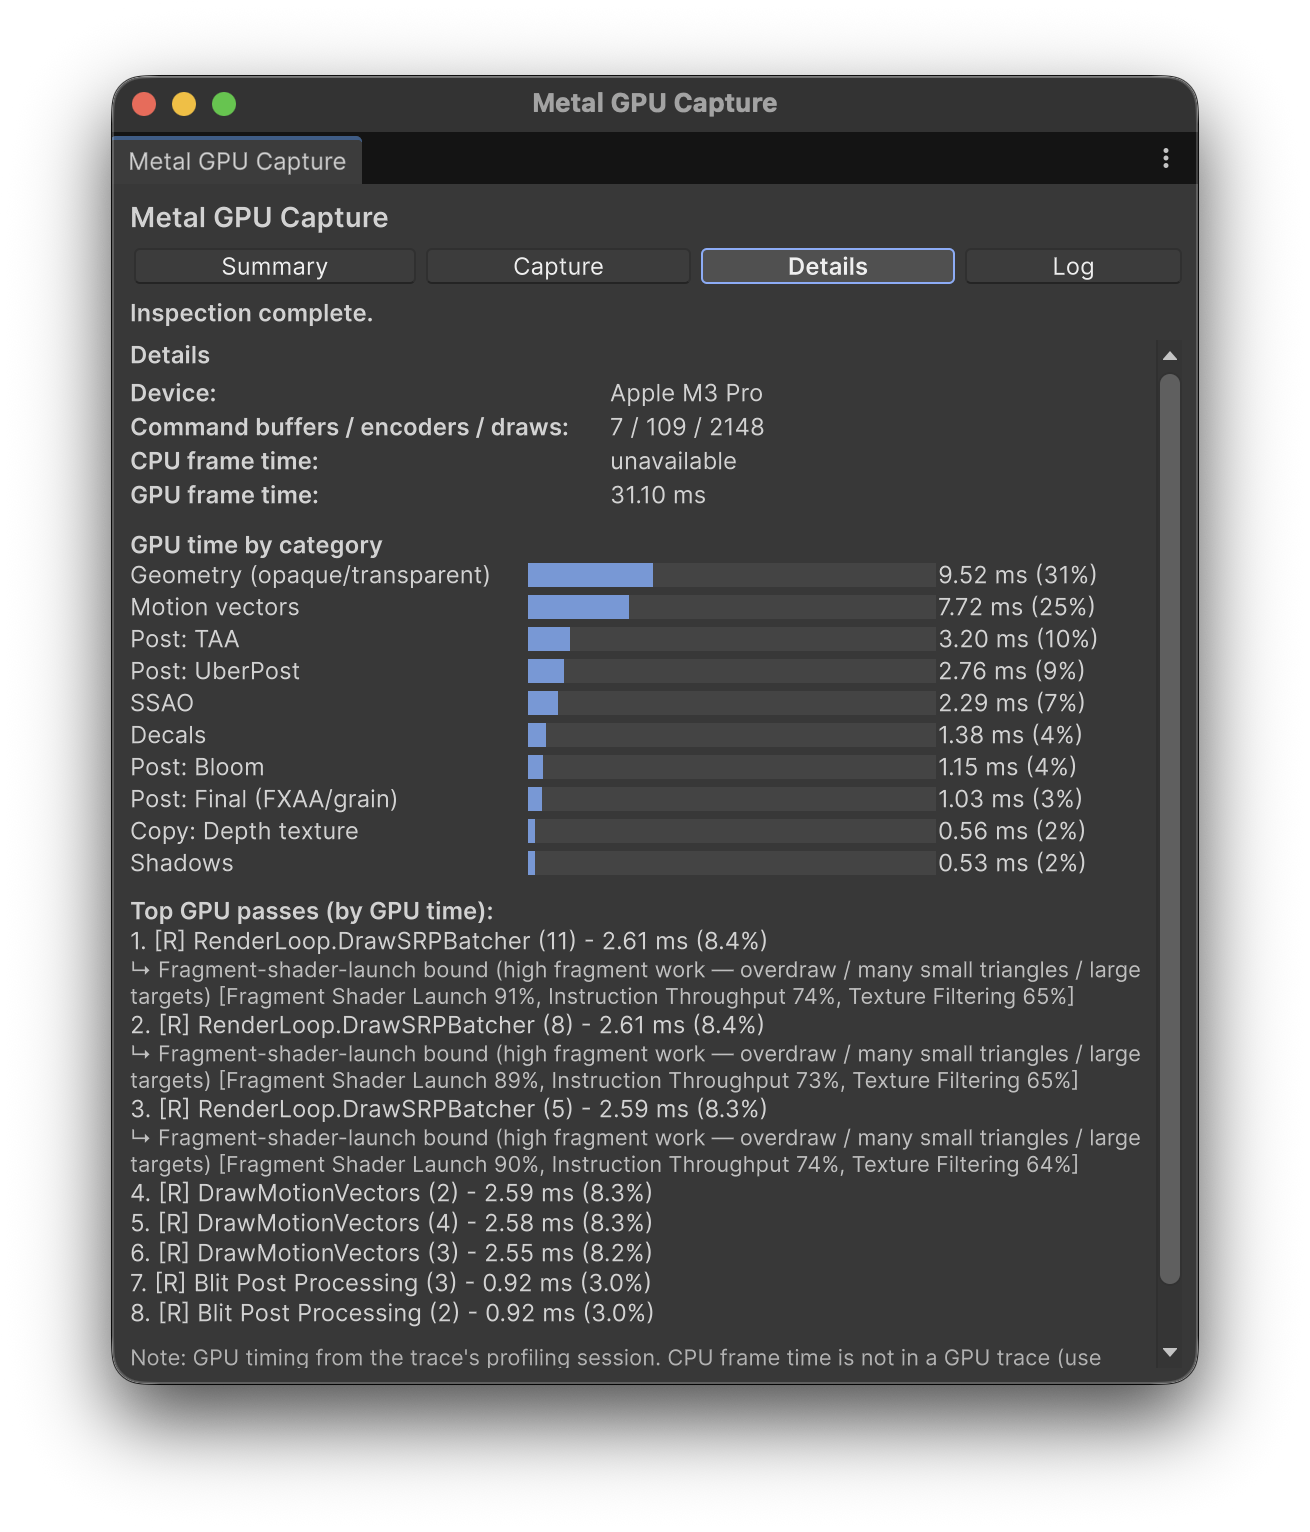
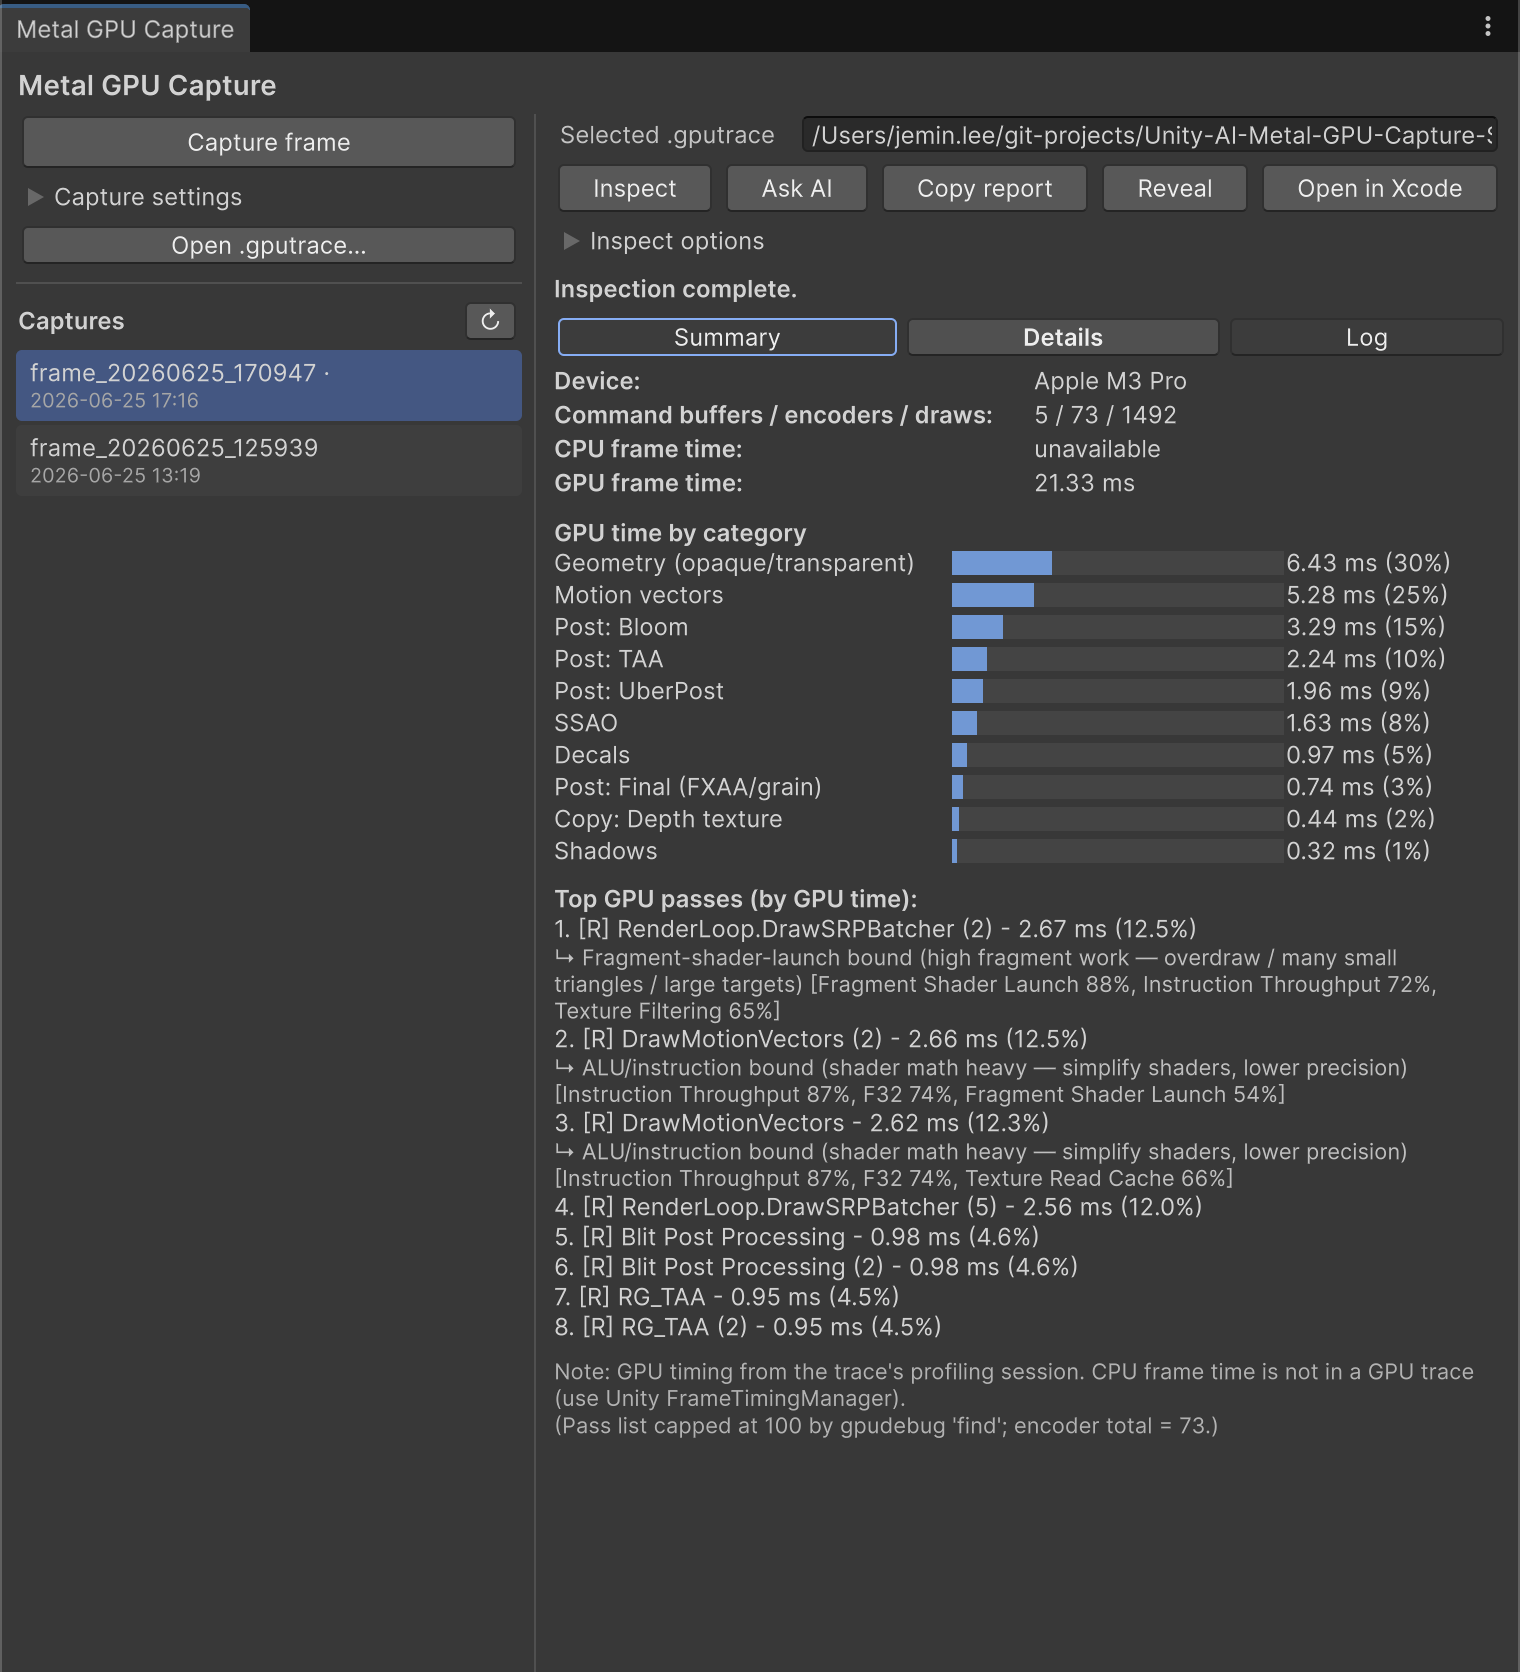
chore: release 0.3.0
Memory-Profiler-style window IA (sidebar Capture + per-trace Summary/Details/Log tabs),
per-trace inspection cache, <Project>/MetalGpuCaptures default folder, GPU timing for
fresh captures via `profile run --embed`, Captures sidebar, doc-screenshot tool, and
regenerated README screenshots.

diff --git a/CHANGELOG.md b/CHANGELOG.md
@@ -6,6 +6,8 @@ and this project adheres to [Semantic Versioning](https://semver.org/spec/v2.0.0
 
 ## [Unreleased]
 
+## [0.3.0] - 2026-06-25
+
 ### Added
 - Dev tool: `Tools > Metal GPU Capture > Generate Doc Screenshots` regenerates the README tab
   screenshots via macOS `screencapture` (macOS Editor only).